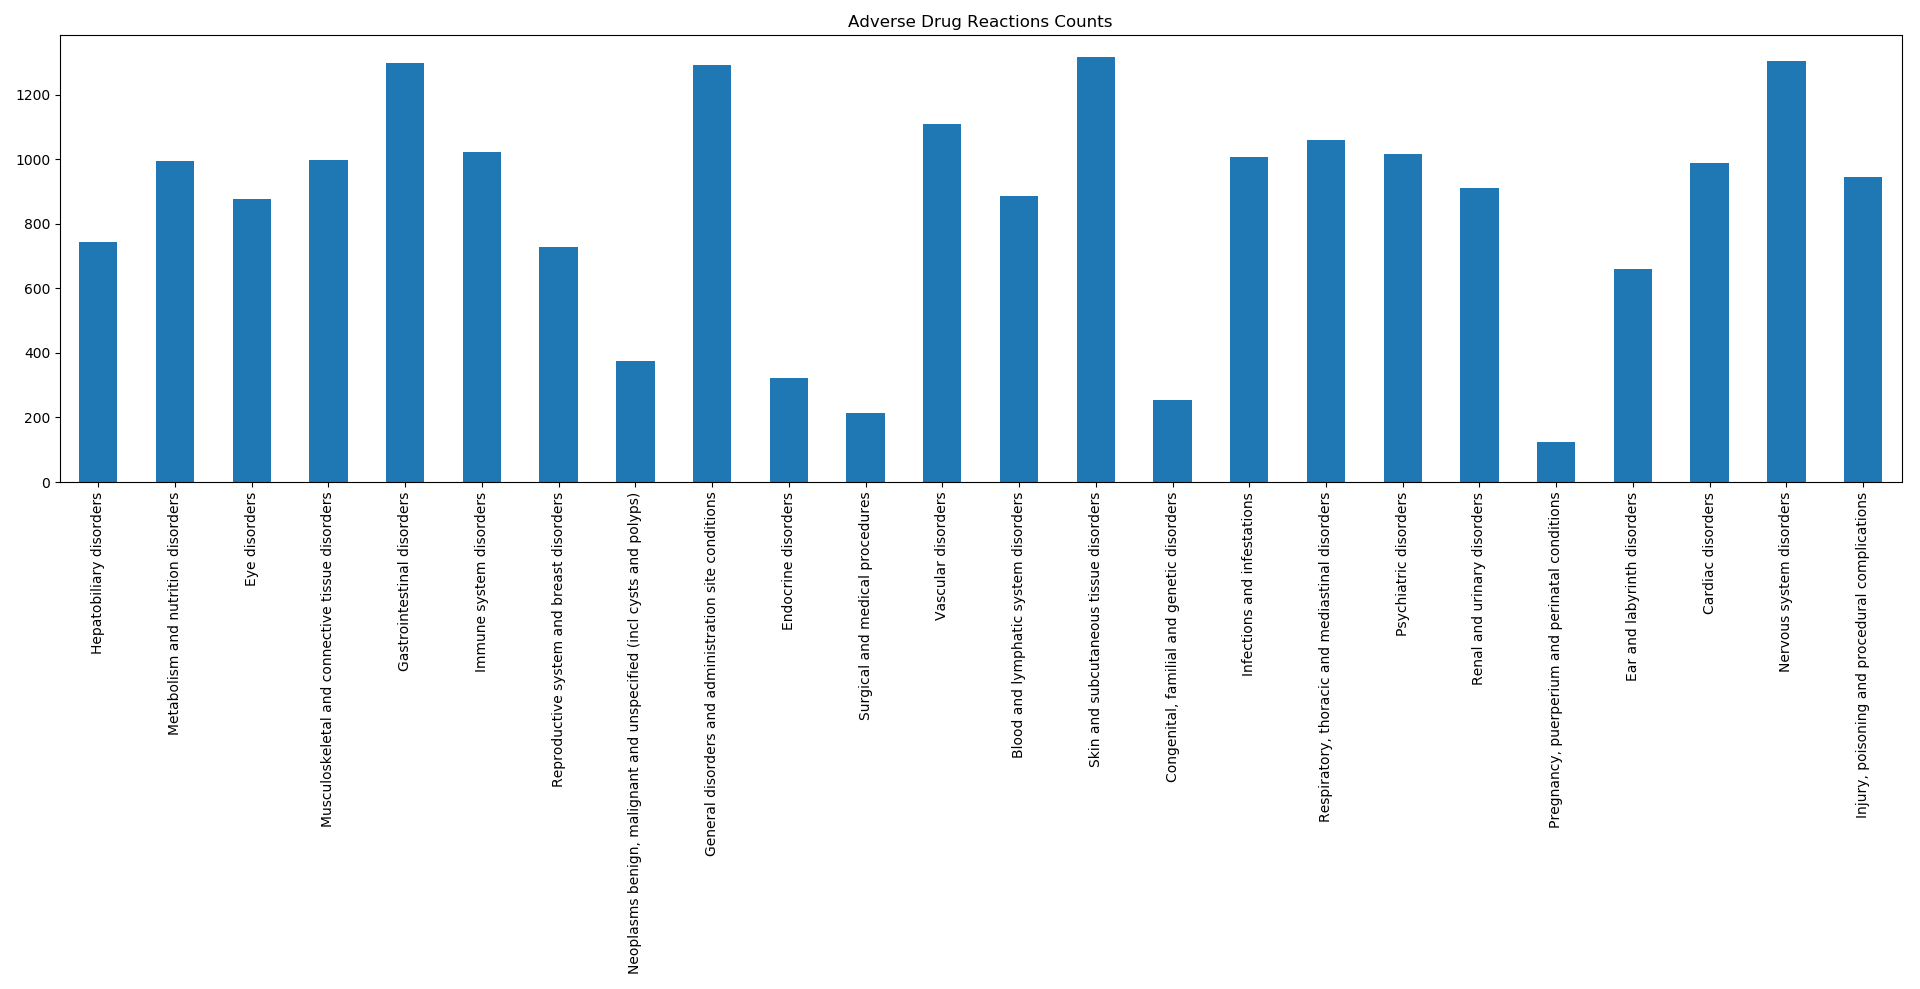
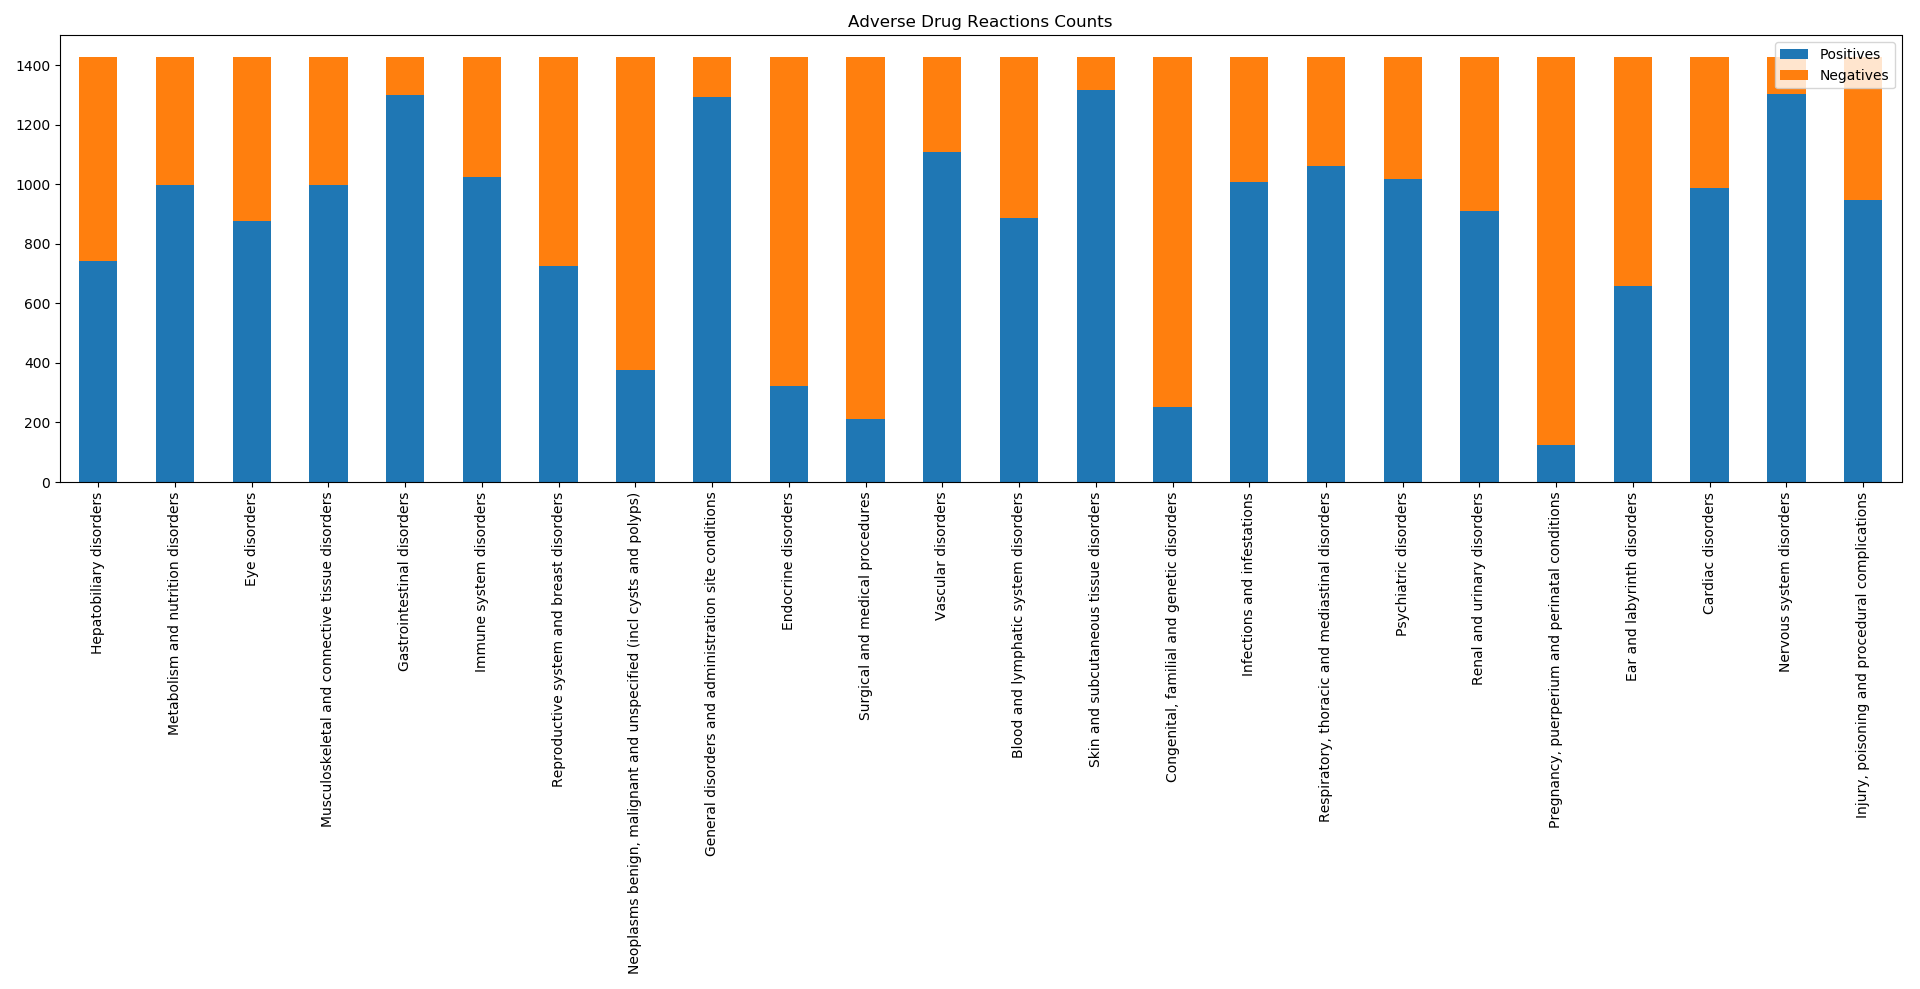
Add offsides dataset

Changed region(s): [[0.0, 0.0303, 1.0, 0.455]]

diff --git a/main.py b/main.py
@@ -46,9 +46,10 @@ modelnamesvc = {name: "SVC" for name in out_names}
 modelnamerf = {name: "RF" for name in out_names}
 modelnamexgb = {name: "XGB" for name in out_names}
 modelnamevot = {name: "VotingClassifier" for name in out_names}
-# counts = y_all.sum(axis=0)
-# counts.plot(kind='bar', figsize = (14,8), title="Adverse Drug Reactions Counts")
 
+d = {"Positives": y_all.sum(axis=0), "Negatives": 1427 - y_all.sum(axis=0)}
+countsm = pd.DataFrame(data=d)
+countsm.plot(kind='bar', figsize=(14, 8), title="Adverse Drug Reactions Counts", ylim=(0, 1500), stacked=True)
 
 # ML MODELS
 # SVC
@@ -267,24 +268,15 @@ test_scores_best_model = test_score_multi_report(X_train_dic, y_train, X_test_di
                                                  modelname=best_model_by_label, spec_params=best_model_params_by_label,
                                                  random_state=seed, verbose=True, balancing=True, n_jobs=-2)
 test_scores_best_model.sort_values(by=["F1 Binary"], ascending=False, inplace=True)
-#test_scores_best_model.to_csv("./results/test_scores_best_model.csv")
+# test_scores_best_model.to_csv("./results/test_scores_best_model.csv")
+
 
 # OFFSIDES
-oss = pd.read_csv("./datasets/offsides_socs.csv")
+# mod_off = create_offside_df(out_names=out_names, write=False)
+mod_off = pd.read_csv("./datasets/offside_socs_modified.csv")
 
-oss_df = oss[["stitch_id", "SOC"]].copy()
-oss_df = oss_df[oss_df.SOC in out_names]
-
-stitchs = oss_df.stitch_id.unique()
-sti_to_smil = {stitch: get_smile_from_cid(stitch) for stitch in tqdm(stitchs)}
-
-oss_df["smiles"] = oss_df.stitch_id.apply(get_smile)
-
-oss_df.drop("stitch_id", inplace=True, axis=1)
-oss_df.loc["SOC"]
-oss_df[out_names] = 0
-
-for name in out_names:
-    oss_df.loc[oss_df.SOC == name, name] = 1
-
-oss_df.to_csv("./datasets/offside_socs_modified.csv")
+# 1332 Rows in Total
+df_y_2 = mod_off.drop("smiles", axis=1)
+d2 = {"Positives": df_y_2.sum(axis=0), "Negatives": 1332 - df_y_2.sum(axis=0)}
+counts = pd.DataFrame(data=d2)
+counts.plot(kind='bar', figsize=(14, 8), title="Adverse Drug Reactions Counts", ylim=(0, 1400), stacked=True)

diff --git a/mlprocess.py b/mlprocess.py
@@ -701,3 +701,29 @@ def get_smile_from_cid(cid):
 
     # Return smile
     return res_t
+
+
+def create_offside_df(out_names, write=False):
+    oss = pd.read_csv("./datasets/offsides_socs.csv")
+    oss_df = oss[["stitch_id", "SOC"]].copy()
+
+    stitchs = oss_df.stitch_id.unique()
+    sti_to_smil = {stitch: get_smile_from_cid(stitch) for stitch in tqdm(stitchs)}
+
+    d = {"stitch_id": stitchs}
+    mod_off = pd.DataFrame(data=d)
+
+    mod_off["smiles"] = mod_off.stitch_id.apply(lambda x: sti_to_smil[x])
+
+    for name in out_names:
+        mod_off[name] = 0
+
+    for index, row in tqdm(oss_df.iterrows()):
+        if row["SOC"] in out_names:
+            mod_off.loc[mod_off["stitch_id"] == row["stitch_id"], row["SOC"]] = 1
+
+    mod_off.drop("stitch_id", inplace=True, axis=1)
+    if write:
+        mod_off.to_csv("./datasets/offside_socs_modified.csv", index=False)
+
+    return mod_off
